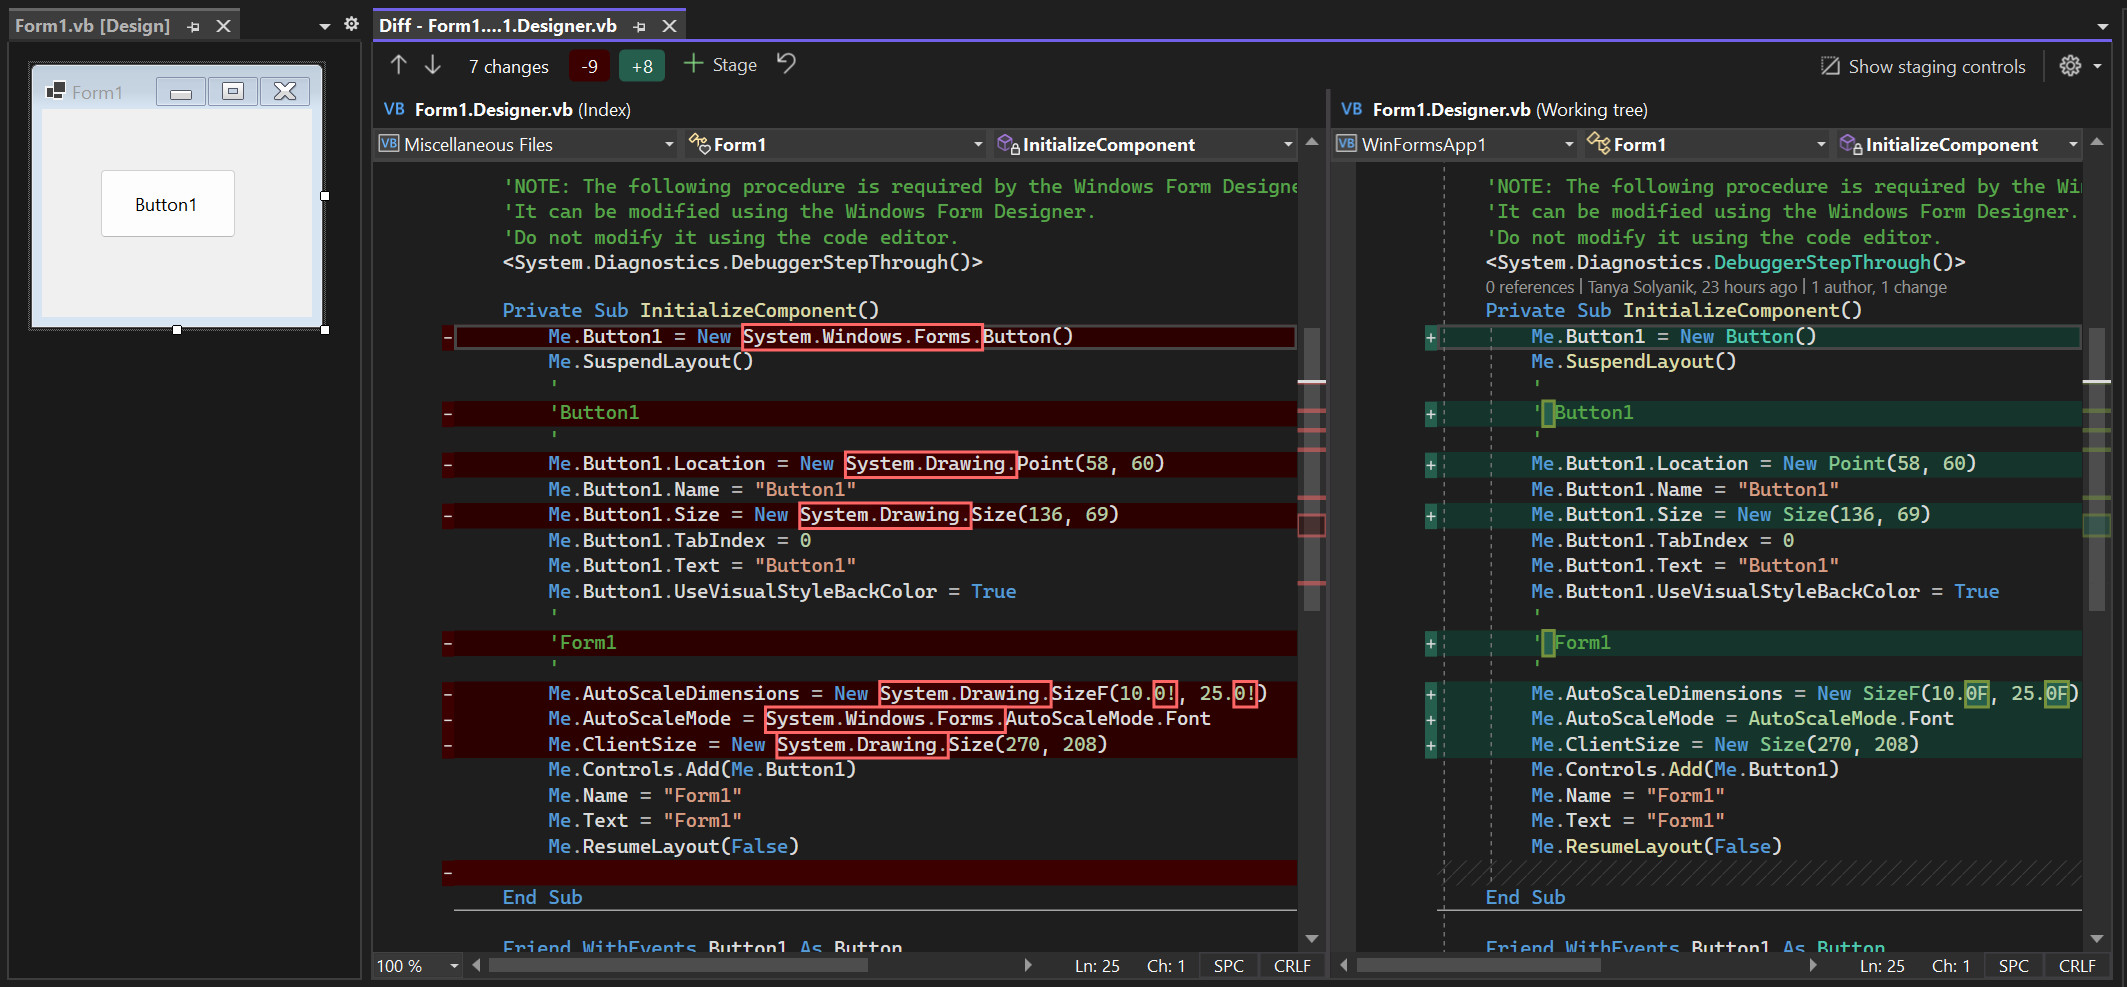
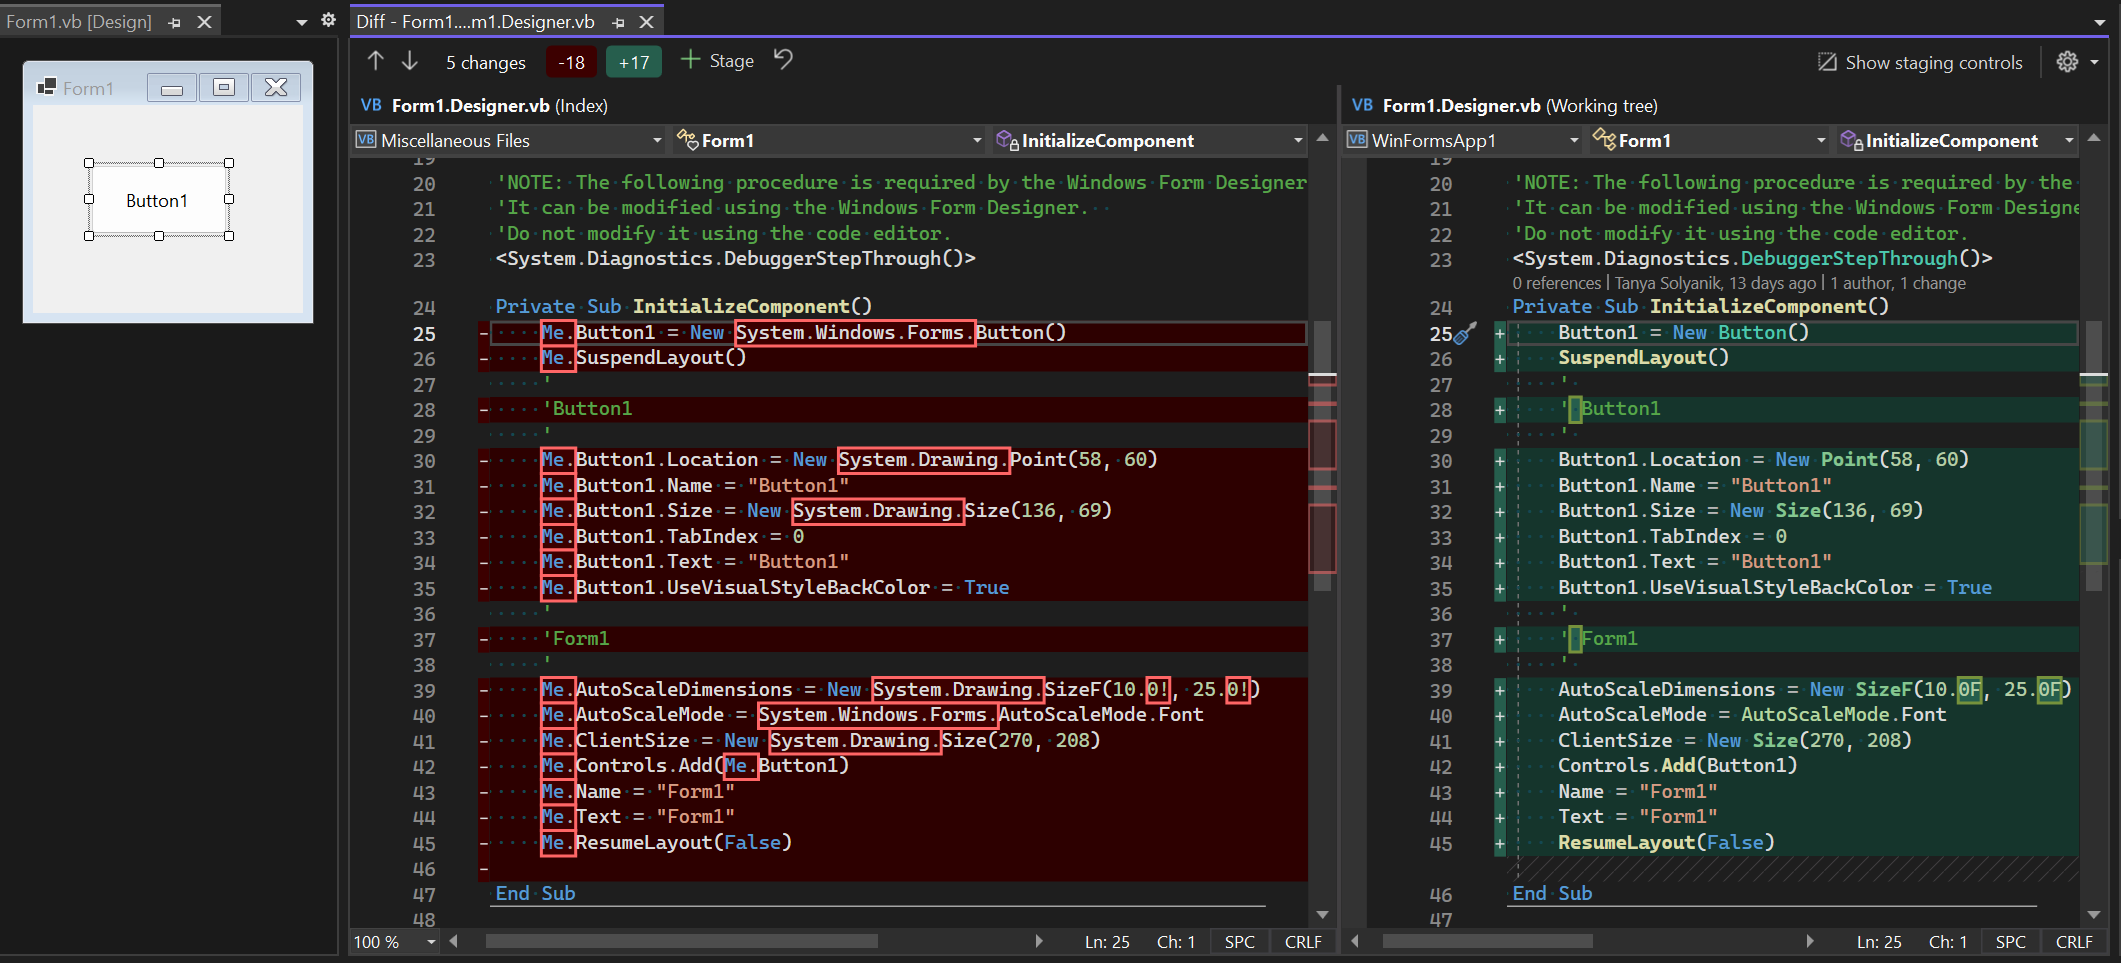
Updated VB image and code snippet

diff --git a/docs/designer/modernization-of-code-behind-in-OOP-designer/modernization-of-code-behind-in-oop-designer.md b/docs/designer/modernization-of-code-behind-in-OOP-designer/modernization-of-code-behind-in-oop-designer.md
@@ -163,27 +163,27 @@ Code generated by VisualStudio v17.5 Preview 3, or newer:
 ```vb
 <System.Diagnostics.DebuggerStepThrough()>
 Private Sub InitializeComponent()
-    Me.Button1 = New Button()
-    Me.SuspendLayout()
+    Button1 = New Button()
+    SuspendLayout()
     ' 
     ' Button1
     ' 
-    Me.Button1.Location = New Point(58, 60)
-    Me.Button1.Name = "Button1"
-    Me.Button1.Size = New Size(136, 69)
-    Me.Button1.TabIndex = 0
-    Me.Button1.Text = "Button1"
-    Me.Button1.UseVisualStyleBackColor = True
+    Button1.Location = New Point(58, 60)
+    Button1.Name = "Button1"
+    Button1.Size = New Size(136, 69)
+    Button1.TabIndex = 0
+    Button1.Text = "Button1"
+    Button1.UseVisualStyleBackColor = True
     ' 
     ' Form1
     ' 
-    Me.AutoScaleDimensions = New SizeF(10.0F, 25.0F)
-    Me.AutoScaleMode = AutoScaleMode.Font
-    Me.ClientSize = New Size(270, 208)
-    Me.Controls.Add(Me.Button1)
-    Me.Name = "Form1"
-    Me.Text = "Form1"
-    Me.ResumeLayout(False)
+    AutoScaleDimensions = New SizeF(10.0F, 25.0F)
+    AutoScaleMode = AutoScaleMode.Font
+    ClientSize = New Size(270, 208)
+    Controls.Add(Button1)
+    Name = "Form1"
+    Text = "Form1"
+    ResumeLayout(False)
 End Sub
 ```
 
